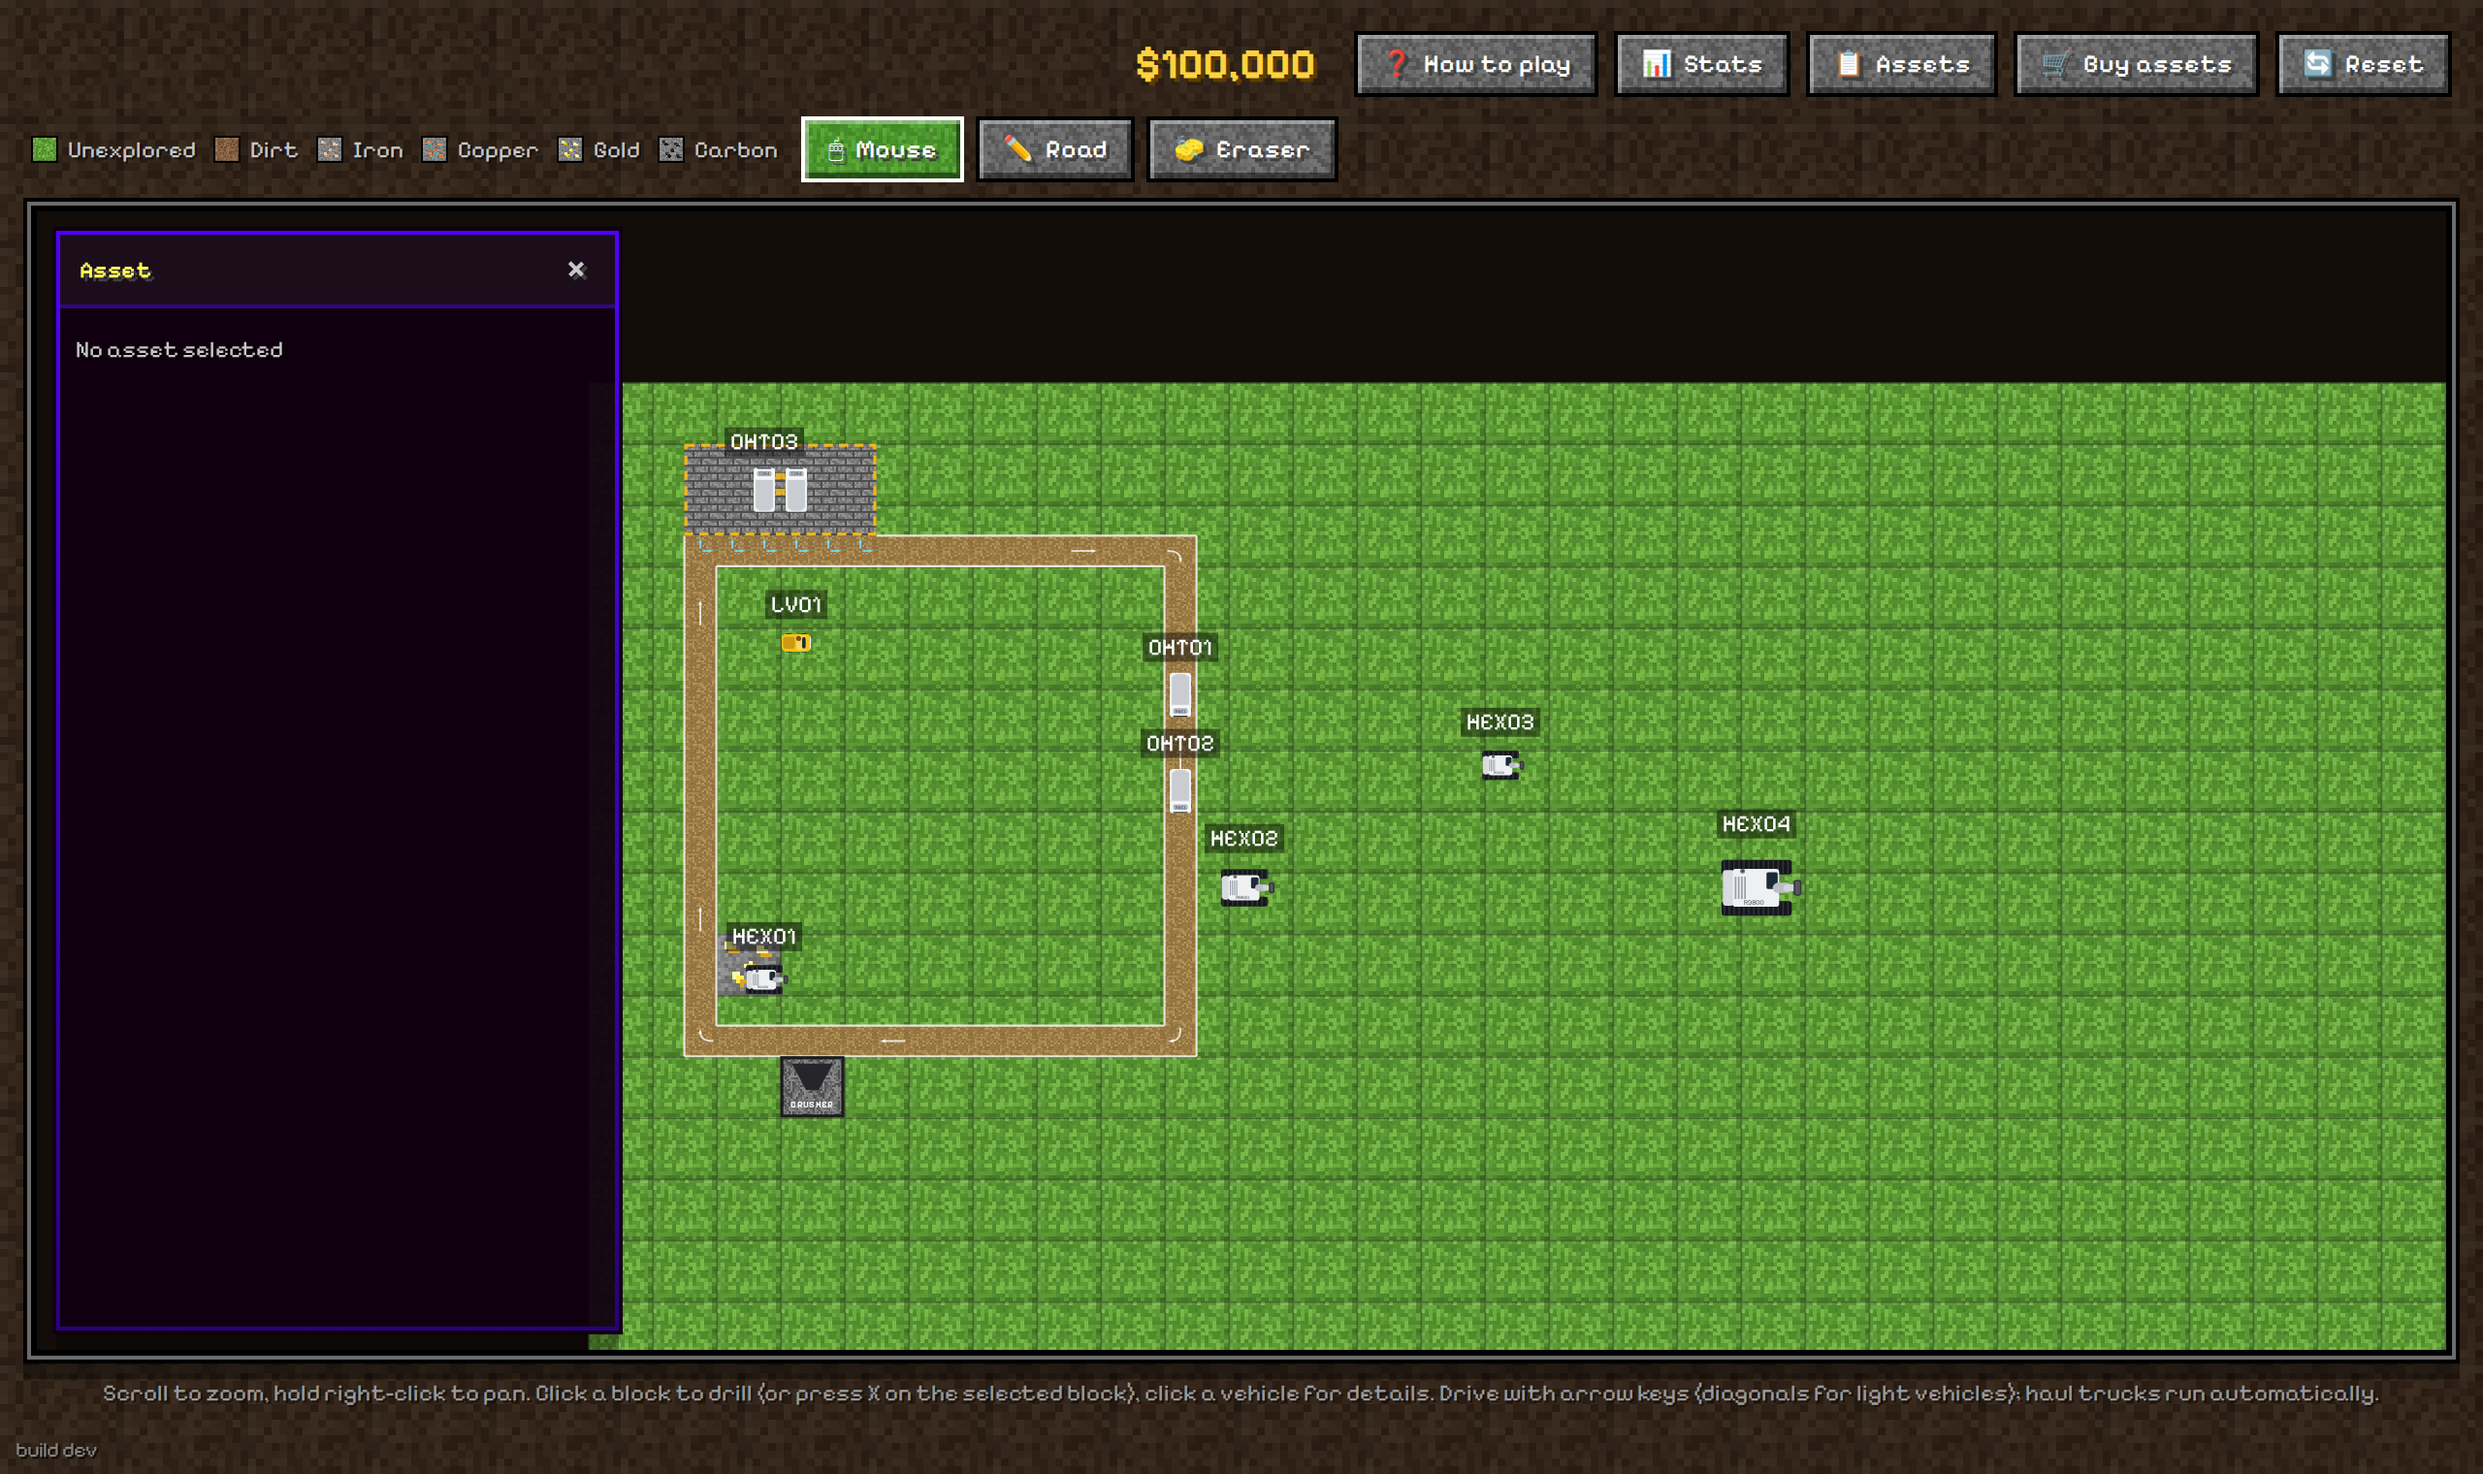
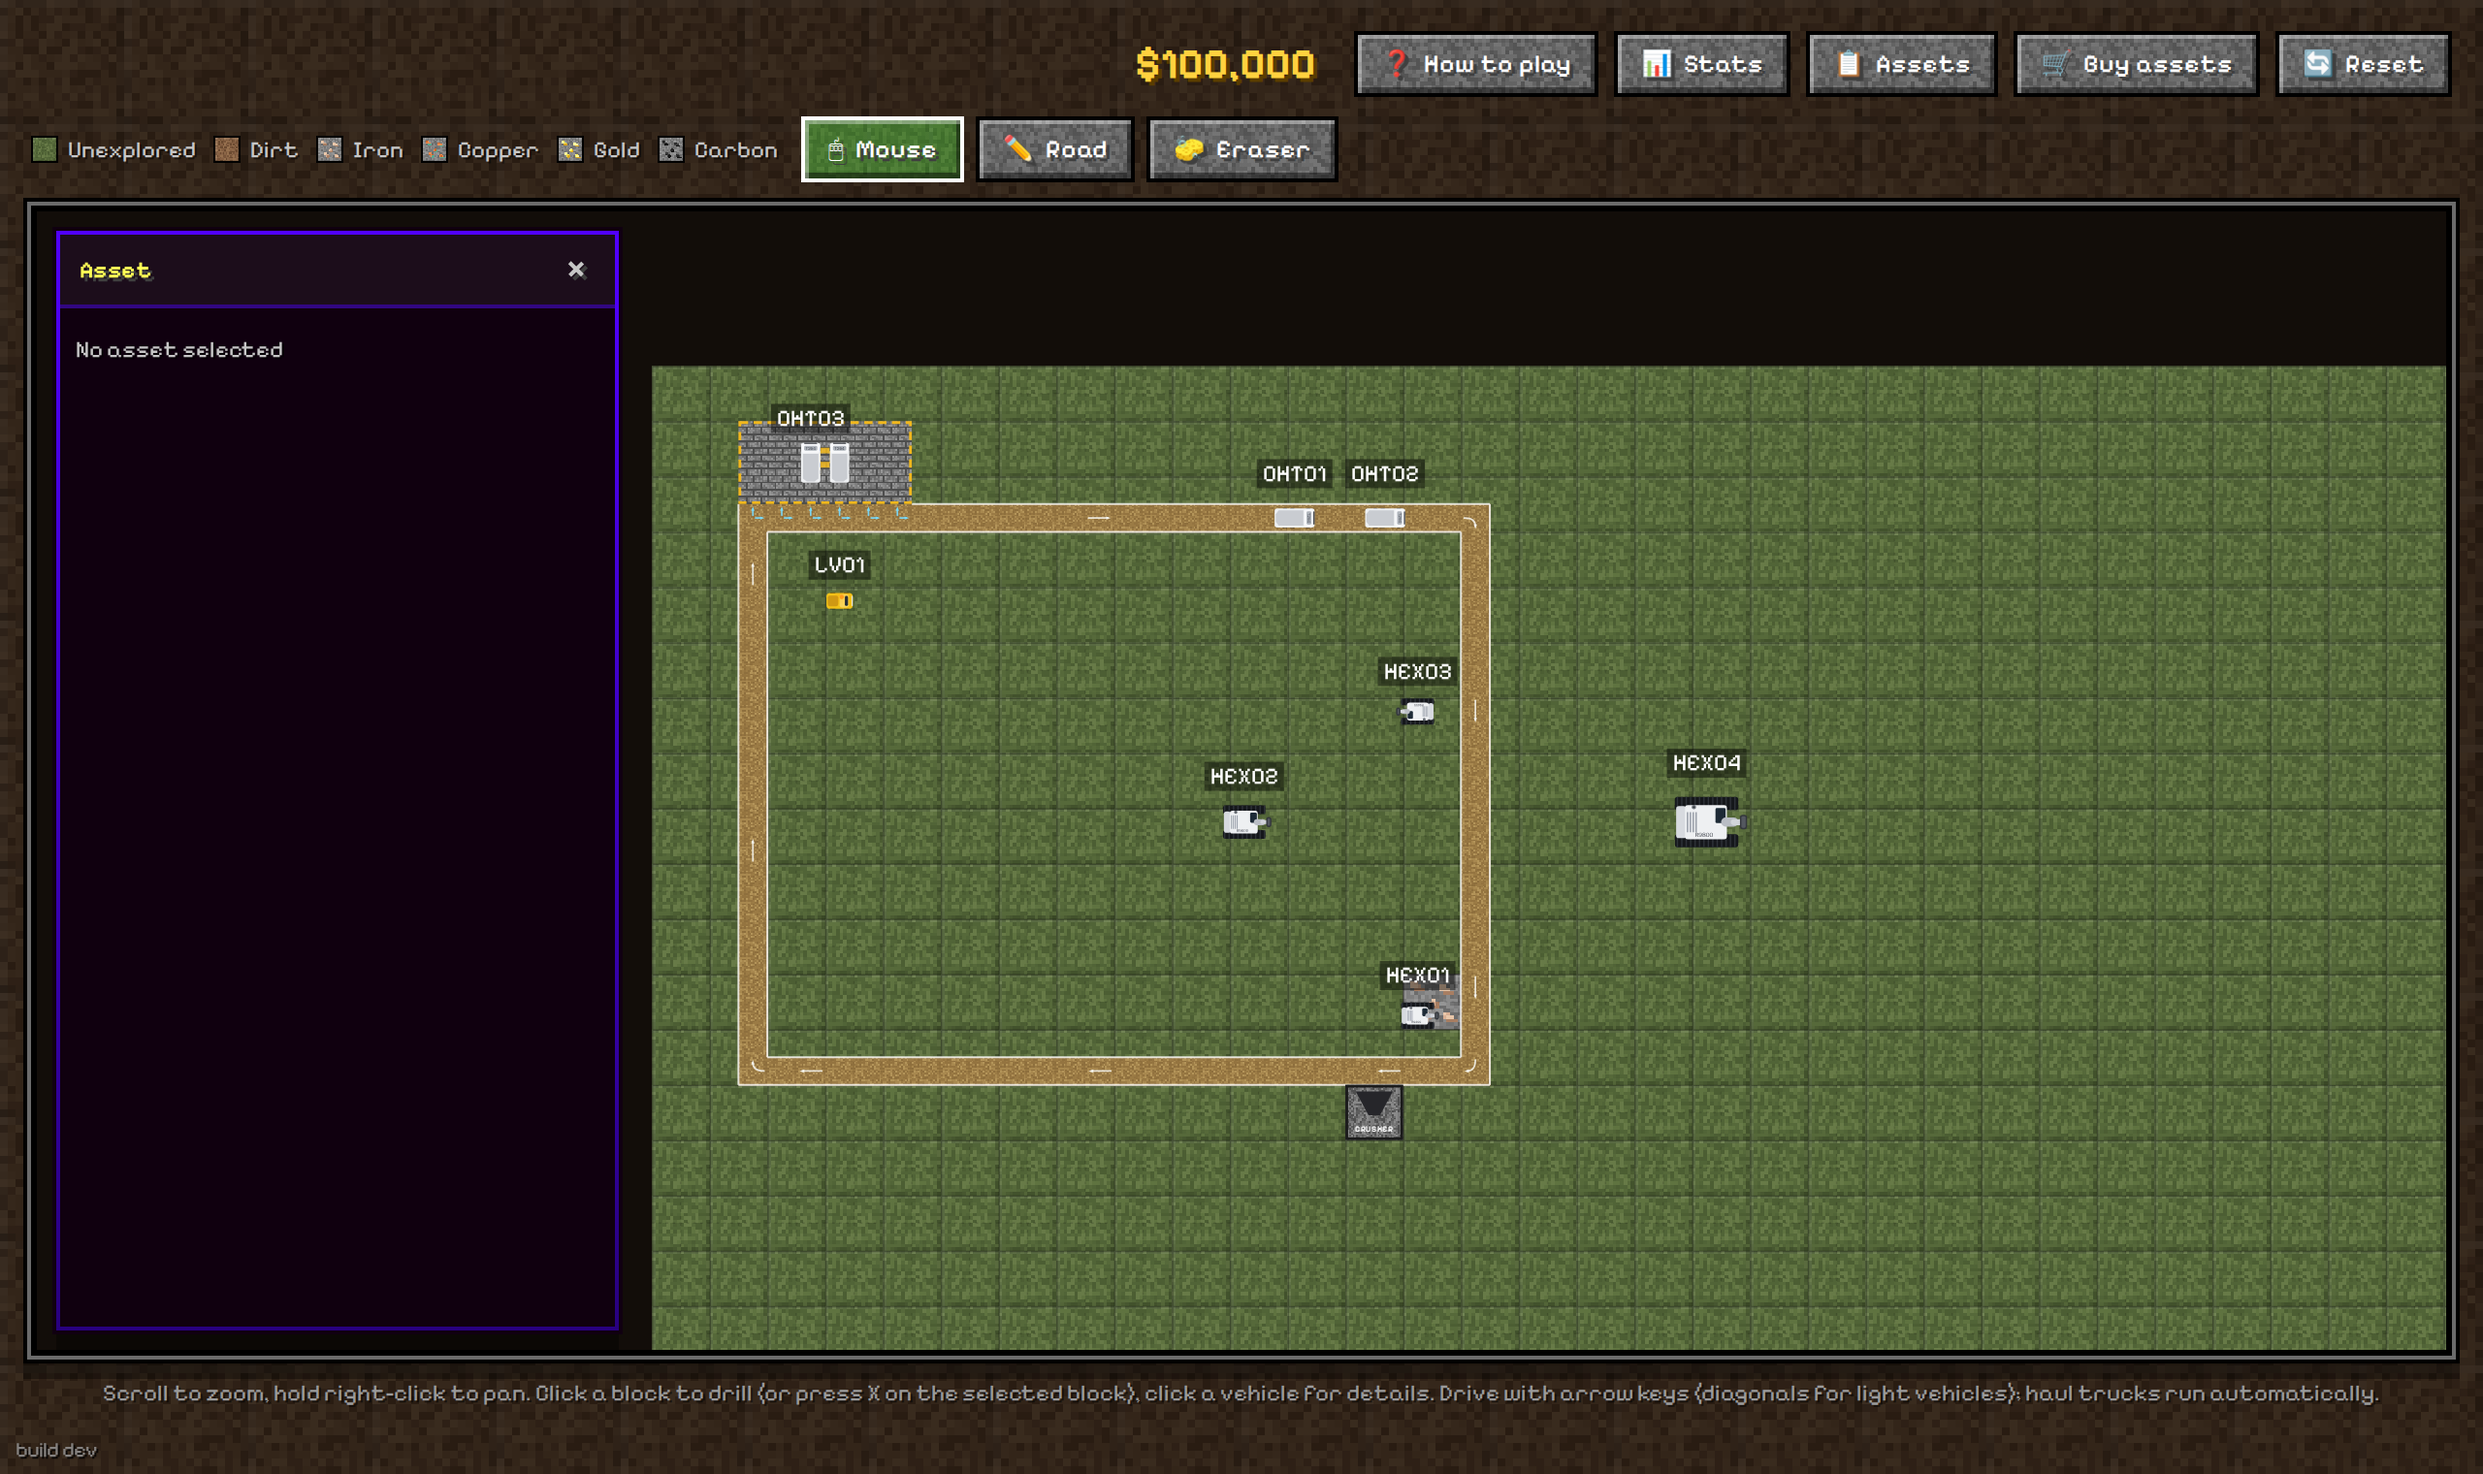
style: mute the grass texture to a calmer moss green
The bright grass read as neon over the whole map; use a desaturated, darker
moss palette (texture, flat LOD fill and legend swatch). Visual baselines and
README screenshots regenerated.

diff --git a/public/components/mine.js b/public/components/mine.js
@@ -17,7 +17,7 @@ export const COLORS = {
   copper:     'rgba(206, 116, 66, 1)',
   gold:       'rgba(226, 198, 64, 1)',
   carbon:     'rgba(52, 52, 56, 1)',
-  unexplored: 'rgba(96, 156, 56, 1)',
+  unexplored: 'rgba(86, 104, 58, 1)',
   prep:       'rgba(76, 76, 84, 1)',      // deepslate — unprepared rich vein
 };
 
@@ -29,7 +29,7 @@ export const COLORS_SOLID = {
   copper:     '#e07b40',
   gold:       '#fcee4b',
   carbon:     '#2b2b2b',
-  unexplored: '#5d9a35',
+  unexplored: '#56693a',
 };
 
 // Fallback total used for the popup gauge; the authoritative value also comes

diff --git a/public/components/textures.js b/public/components/textures.js
@@ -20,7 +20,7 @@ function prng(seed) {
 }
 
 const BASES = {
-  grass:     { seed: 11, pal: ['#5d9a35', '#6aab3d', '#4f8a2c', '#78b847', '#568f30'] },
+  grass:     { seed: 11, pal: ['#56693a', '#5f7340', '#4c5e33', '#677a47', '#516437'] },   // muted moss
   dirt:      { seed: 23, pal: ['#866043', '#79553a', '#96704e', '#6b4a30', '#8c6748'] },
   stone:     { seed: 37, pal: ['#7f7f7f', '#8b8b8b', '#747474', '#6c6c6c', '#959595'] },
   deepslate: { seed: 41, pal: ['#4b4b52', '#56565e', '#3f3f46', '#5f5f68', '#45454c'] },
